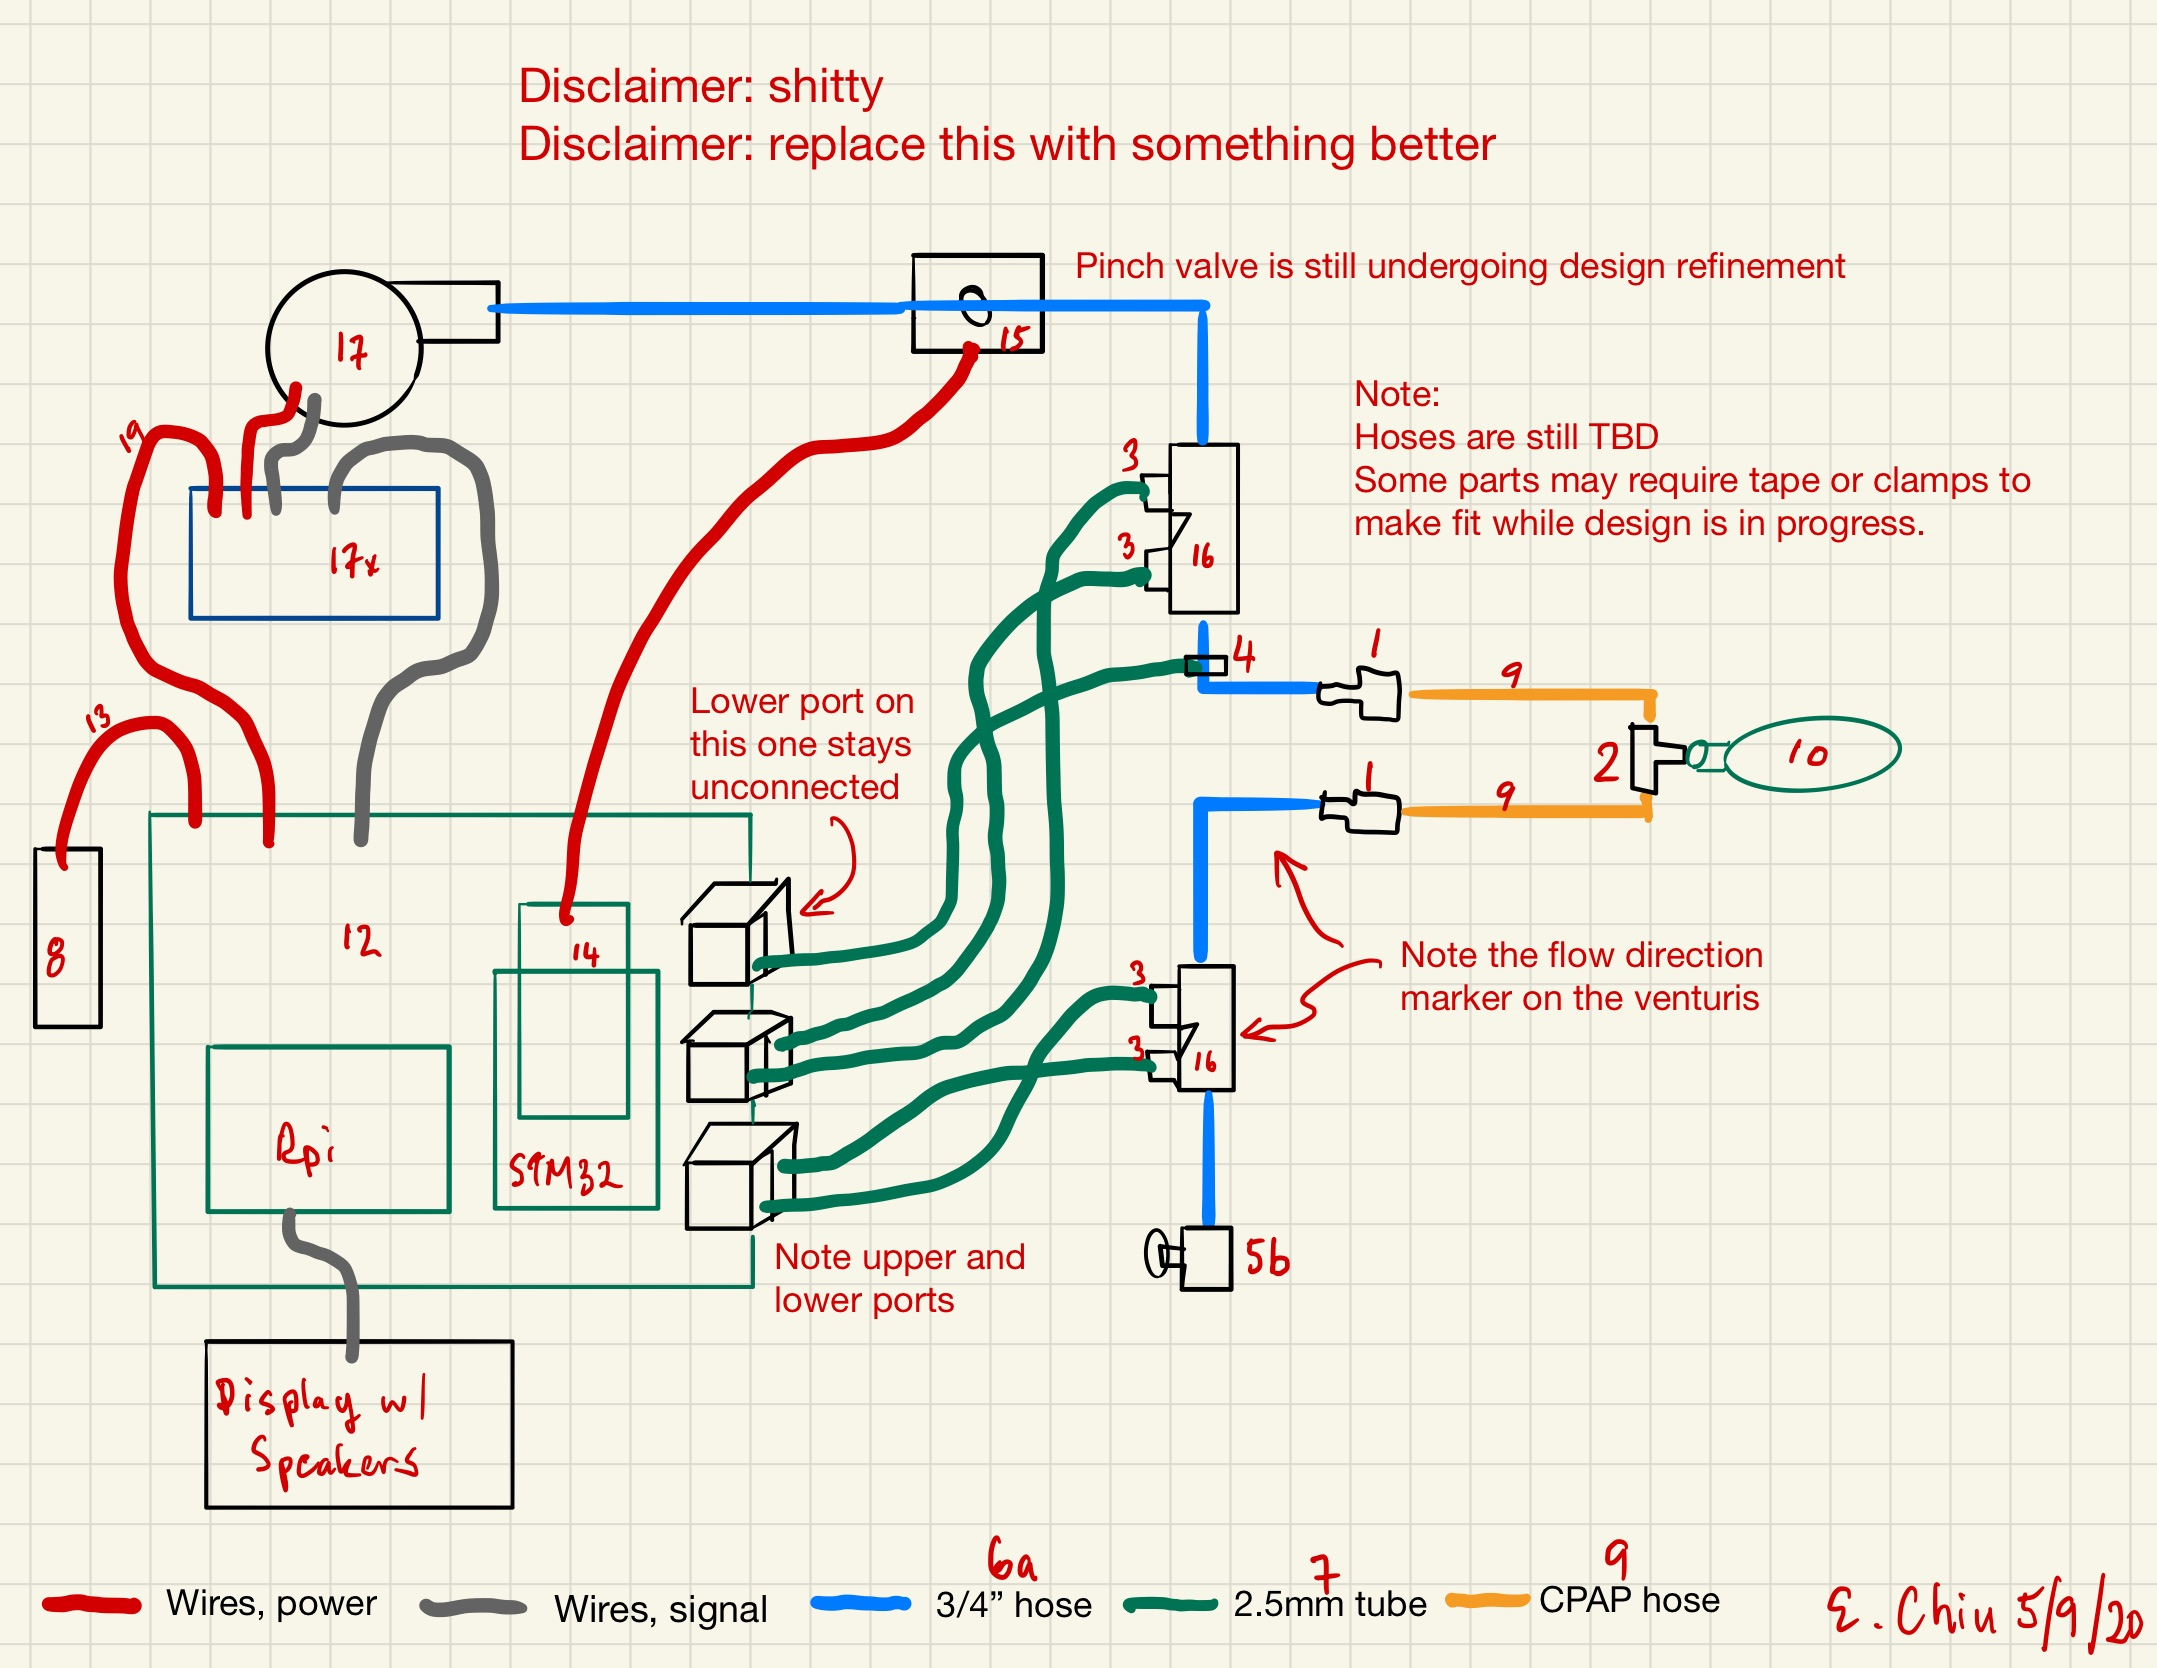
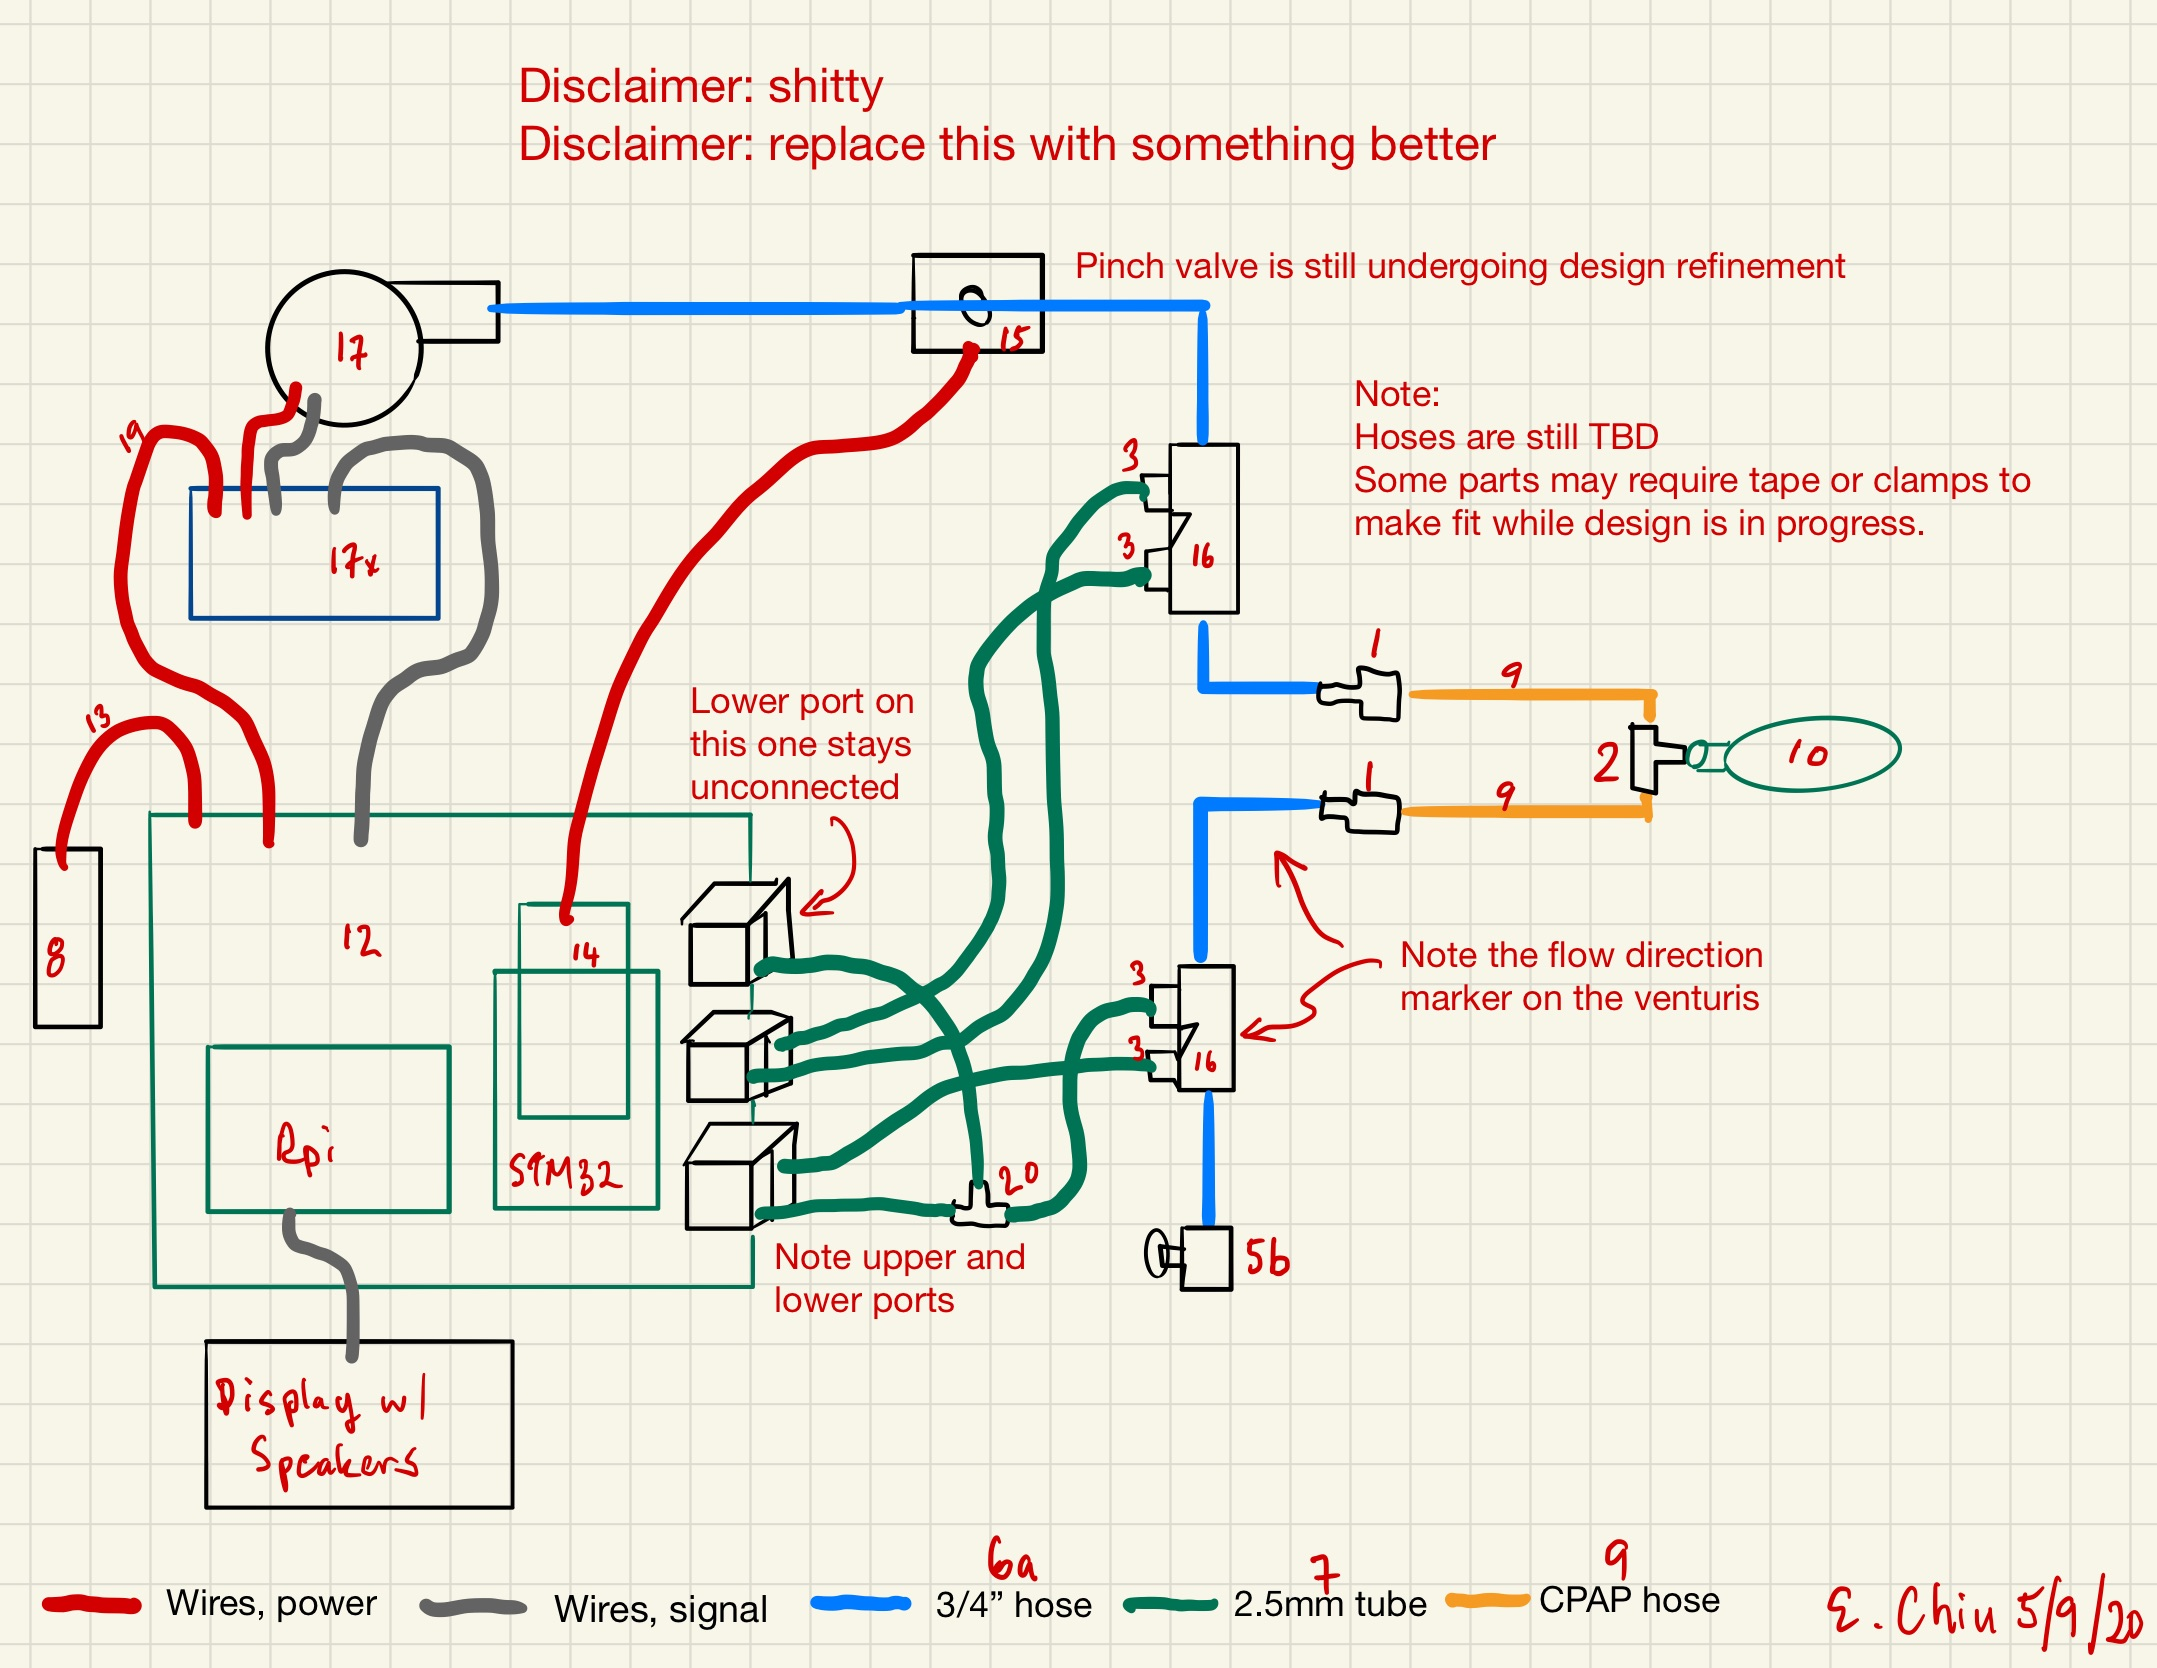
updated PCB sensor port connections

Changed region(s): [[0.3417, 0.5612, 0.5591, 0.7482], [0.4659, 0.3741, 0.5902, 0.4365], [0.4349, 0.4365, 0.4659, 0.5612]]

diff --git a/4_Manufacturing_Design/Alpha_Build_Instructions/pizza_build.md b/4_Manufacturing_Design/Alpha_Build_Instructions/pizza_build.md
@@ -58,6 +58,7 @@ This build depends on already having a Brain build, which has its own BOM [here]
 | 17x    |        1 |               | WS1208DYY01V03      |        24.00 |*ask first*| [W][17x-won]    | blower driver, in case blower above did not come with driver. |
 | 18     |        1 | RespiraWorks  | blower control cable|              | **ask**   | [B][18rw]               | blower control cable |
 | 19     |        1 | RespiraWorks  | blower power cable  |              | **ask**   | [B][19rw]               | blower power cable |
+| 20     |        1 | McMaster-Carr  | 5463K44  | 7.39 / 10 | buy   | [C][20mcmc] | sensing tube 3/23" t-junction |
 
 [1mcmc]:   https://www.mcmaster.com/53415K217
 [2mcmc]:   https://www.mcmaster.com/5463K565
@@ -87,6 +88,7 @@ This build depends on already having a Brain build, which has its own BOM [here]
 [17x-won]: https://wonsmart-motor.en.made-in-china.com/product/hsjxFewOppVg/China-Air-Pump12V-Brushless-Motor-12V-Blower-Fan-Driver.html
 [18rw]:    ../../1_Ventilator_System_Design/Electrical_System/wiring.md
 [19rw]:    ../../1_Ventilator_System_Design/Electrical_System/wiring.md
+[20mcmc]:    https://www.mcmaster.com/5463K44
 
 ## Tooling BOM
 
